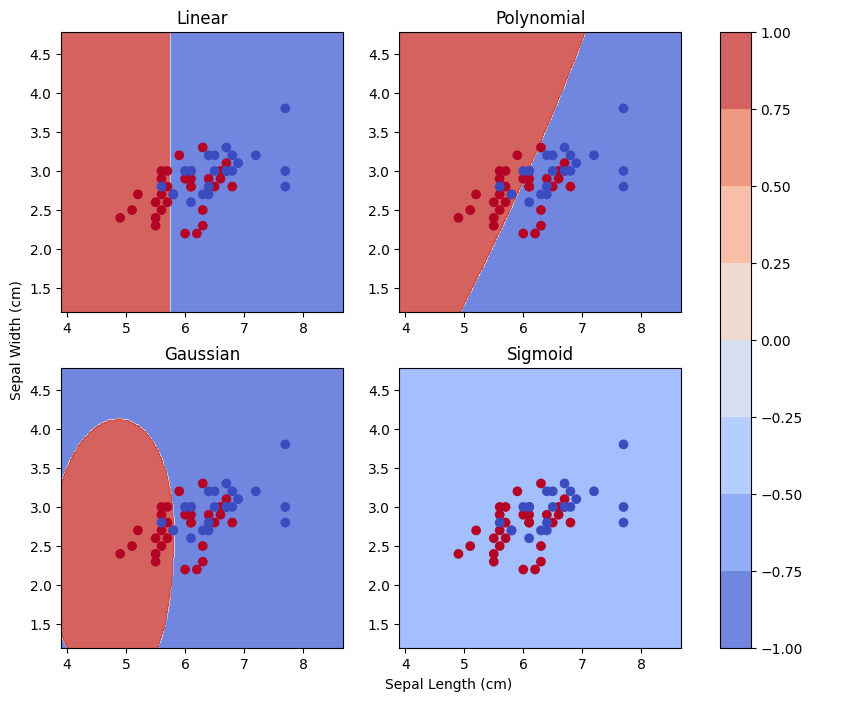
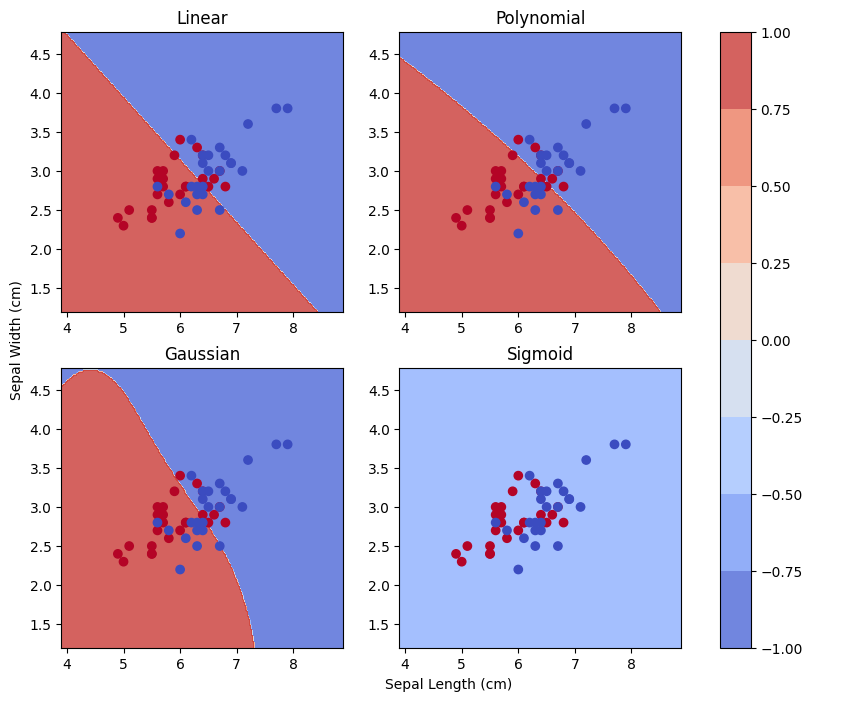
Fixed splitDataToCSV

diff --git a/src/Dataset.py b/src/Dataset.py
@@ -91,12 +91,12 @@ def splitDataToCSV(src_filepath: str, training_size=0.50, validation_size=0.00) 
         Splits a dataset and places the training, validation, and testing sets into separate .csv files according
         to the sizes specified by the input params. The size of the testing set is determined by the remaining 
         datapoints not assigned to either the training nor validation set. The sizes of the training and validation sets
-        can be defined either as ratios (0.00, 1.00) or whole numbers [1, length(data)]
+        are defined as ratios (0.00, 1.00)
 
     Parameters:
         src_filepath (str): A filepath string to the dataset to split
-        training_size (float): A ratio/int which determines the training set size (default is 0.50)
-        validation_size (float): A ratio/int which determines the validation set size (default is (0.00)
+        training_size (float): A ratio which determines the training set size (default is 0.50)
+        validation_size (float): A ratio which determines the validation set size (default is (0.00)
 
     Returns:
         None
@@ -105,28 +105,48 @@ def splitDataToCSV(src_filepath: str, training_size=0.50, validation_size=0.00) 
     # Validate input path
     if not os.path.isfile(src_filepath):
         raise Exception("src_filepath is not a file.")
+    
+    # Reject whole number sizes
+    if (training_size >= 1.0) or (validation_size >= 1.0):
+        raise Exception("training_size and validation_size must be ratios.")
 
     # Read input .csv
     data = pd.read_csv(src_filepath, header=0) # include header row
     df = pd.DataFrame(data)
     num_samples = len(df.index)
 
-    # If ratio, convert into integer value for sampling
-    if training_size < 1.0:
-        training_size = round(num_samples*training_size)
-    if validation_size < 1.0:
-        validation_size = round(num_samples*validation_size)
-
     # Get test_size and validate
-    test_size = num_samples - training_size - validation_size
+    test_size = num_samples - round(num_samples*training_size) - round(num_samples*validation_size)
     if test_size <= 0:
         raise Exception("test_size is invalid! Please correct training_size and validation_size.")
     
-    # Randomly sample dataset and place into training, validation, and testing files
-    training_data = df.sample(n=training_size)
-    df = df.drop(training_data.index)
-    validation_data = df.sample(n=validation_size)
-    testing_data = df.drop(validation_data.index)
+    # Get unique class labels
+    classes = df[df.columns[-1]].unique()
+
+    # Group rows by class label then split each class by the ratios specified
+    training_data = pd.DataFrame()
+    validation_data = pd.DataFrame()
+    testing_data = pd.DataFrame()
+    for idx, c in enumerate(classes):
+        # Get first dataframe grouped by class
+        temp_df = df[df[df.columns[-1]] == c]
+
+        # Randomly sample dataset and place into training, validation, and testing files
+        temp_training_data = temp_df.sample(frac=training_size)
+        temp_df = temp_df.drop(temp_training_data.index)
+        temp_validation_data = temp_df.sample(frac=validation_size)
+        temp_testing_data = temp_df.drop(temp_validation_data.index)
+
+        # See if we need initialize dataframe or append to create dataframe to be saved
+        if(idx == 0):
+            training_data = temp_training_data
+            validation_data = temp_validation_data
+            testing_data = temp_testing_data
+        # Append to existing set
+        else:
+            training_data = pd.concat([training_data, temp_training_data])
+            validation_data = pd.concat([validation_data, temp_validation_data])
+            testing_data = pd.concat([testing_data, temp_testing_data])
 
     # Write data to their respective .csv files
     directory, filename = os.path.split(src_filepath)

diff --git a/src/test_SVM.py b/src/test_SVM.py
@@ -33,8 +33,8 @@ def main():
     [x_all, y_all] = Dataset.splitAndEnumData(all_data, label_map)
 
     # Reduce training and testing data to sepal width and length
-    c1 = 0 # for best results, use col 2. for worst results, use col 0.
-    c2 = 1 # for best results, use col 3. for worst results, use col 1.
+    c1 = 2 # for best results, use col 2. for worst results, use col 0.
+    c2 = 3 # for best results, use col 3. for worst results, use col 1.
     [x_train, x_test] = plot_Data.reduceDataset2D(x_train, x_test, col1=c1, col2=c2)
     [x_all, x_all] = plot_Data.reduceDataset2D(x_all, x_all, col1=c1, col2=c2)
 
